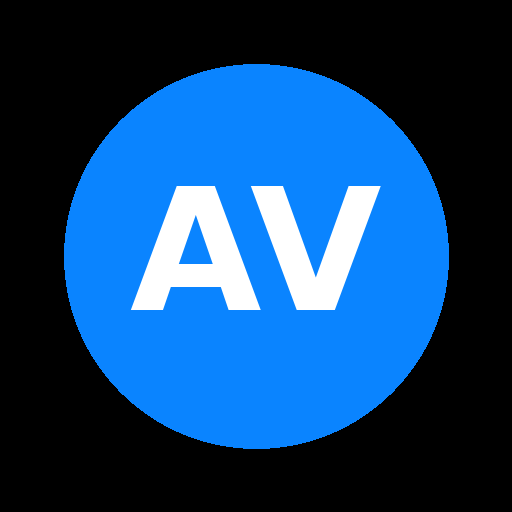
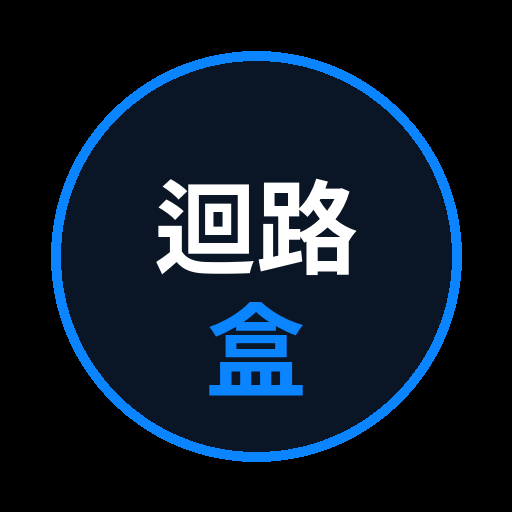
Add files via upload

diff --git a/sw.js b/sw.js
@@ -1,35 +1,48 @@
-const CACHE_NAME = 'av-box-v1';
-const ASSETS = [
-    '/Panel-circuit-box/index-offline.html'
-];
+// AV 迴路盒查詢 — Service Worker V12.1
+const CACHE_NAME = 'av-panel-v12';
 
-// 安裝時快取主頁面
-self.addEventListener('install', e => {
-    e.waitUntil(
-        caches.open(CACHE_NAME).then(cache => cache.addAll(ASSETS))
+self.addEventListener('install', event => {
+    event.waitUntil(
+        caches.open(CACHE_NAME).then(cache => {
+            return cache.addAll([
+                'index.html',
+                'manifest.json',
+                'data.json'
+            ]).catch(err => console.warn('[SW] Cache partial fail:', err));
+        })
     );
     self.skipWaiting();
 });
 
-// 啟動時清除舊快取
-self.addEventListener('activate', e => {
-    e.waitUntil(
+self.addEventListener('activate', event => {
+    event.waitUntil(
         caches.keys().then(keys =>
             Promise.all(keys.filter(k => k !== CACHE_NAME).map(k => caches.delete(k)))
-        )
+        ).then(() => self.clients.claim())
     );
-    self.clients.claim();
 });
 
-// 網路優先，失敗時用快取（離線可用）
-self.addEventListener('fetch', e => {
-    e.respondWith(
-        fetch(e.request)
-            .then(res => {
-                const clone = res.clone();
-                caches.open(CACHE_NAME).then(cache => cache.put(e.request, clone));
-                return res;
+// 網路優先，失敗回退快取
+self.addEventListener('fetch', event => {
+    if (event.request.method !== 'GET') return;
+
+    const url = new URL(event.request.url);
+    const isExternal = url.hostname !== self.location.hostname;
+
+    if (isExternal) {
+        event.respondWith(fetch(event.request));
+        return;
+    }
+
+    event.respondWith(
+        fetch(event.request)
+            .then(response => {
+                if (response && response.status === 200) {
+                    const cloned = response.clone();
+                    caches.open(CACHE_NAME).then(cache => cache.put(event.request, cloned));
+                }
+                return response;
             })
-            .catch(() => caches.match(e.request))
+            .catch(() => caches.match(event.request))
     );
 });

diff --git a/index.html b/index.html
@@ -6,7 +6,20 @@
     <title>AV 迴路盒查詢 | V12.1</title>
     <meta name="apple-mobile-web-app-capable" content="yes">
     <meta name="apple-mobile-web-app-status-bar-style" content="black-translucent">
+    <meta name="apple-mobile-web-app-title" content="迴路盒">
+    <meta name="mobile-web-app-capable" content="yes">
     <meta name="theme-color" content="#000000">
+    <link rel="manifest" href="manifest.json">
+    <link rel="apple-touch-icon" href="icon-192.png">
+    <script>
+        if ('serviceWorker' in navigator) {
+            window.addEventListener('load', function () {
+                navigator.serviceWorker.register('sw.js')
+                    .then(reg => console.log('[PWA] SW registered:', reg.scope))
+                    .catch(err => console.warn('[PWA] SW failed:', err));
+            });
+        }
+    </script>
     <style>
         @import url('https://fonts.googleapis.com/css2?family=Inter:wght@400;500;600;700&display=swap');
 